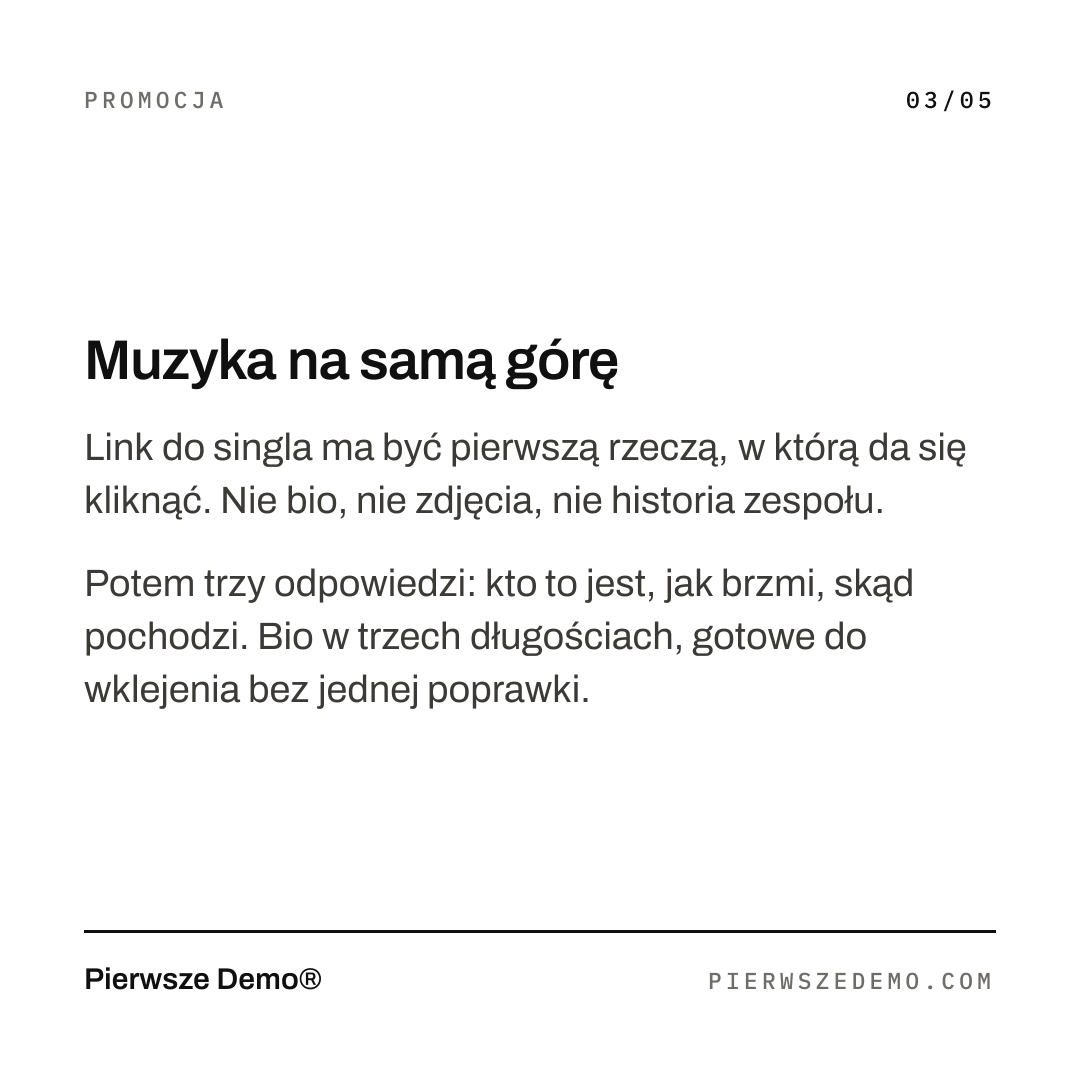
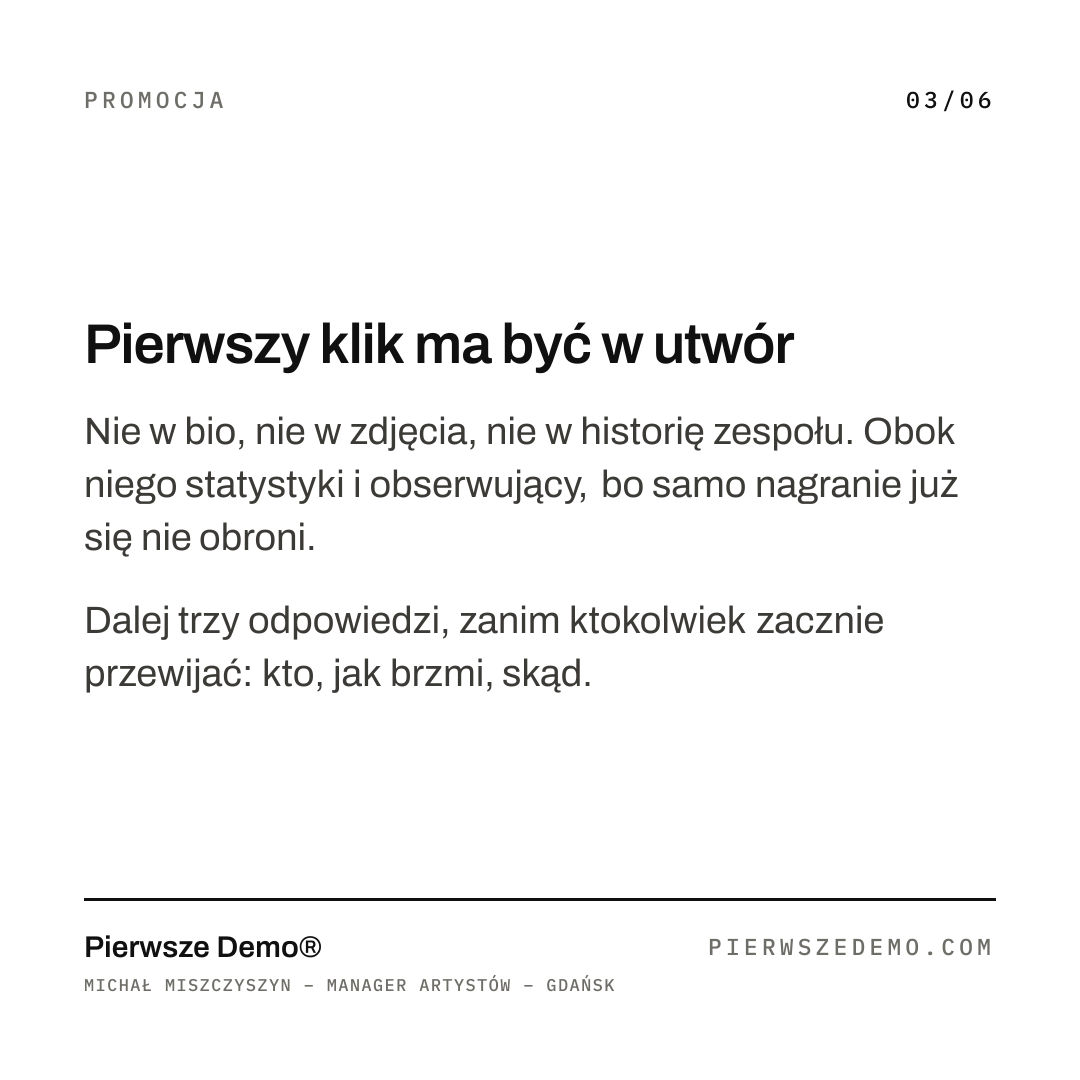
feat(ig): nowy wariant karuzeli EPK i podpis managera w stopce slajdów
Stopka każdego slajdu dostaje pod wordmarkiem wiersz
„Michał Miszczyszyn – Manager artystów – Gdańsk” ze stałych w consts.ts.
CTA może mieć 4 linie, a słowo w linii CTA 16 znaków – tyle ma
„pierwszedemo.com”, które ma stać jako wezwanie, nie tylko jako adres.

We wpisie „autora” → „autorki”, „managera” → „managementu”; to samo
na slajdach i w opisie.

diff --git a/src/content/blog/2026-08-09-jak-przygotowac-epk.md b/src/content/blog/2026-08-09-jak-przygotowac-epk.md
@@ -9,7 +9,7 @@ keyphrase: jak zrobić epk
 readingMinutes: 2
 ---
 
-Dostałem kiedyś EPK na czternaście ekranów. Był tam życiorys od podstawówki, lista wszystkich zagranych koncertów i skan dyplomu z przeglądu sprzed ośmiu lat. Muzyki nie było nigdzie. Zamknąłem to po minucie i do dziś nie wiem, jak ten zespół brzmi.
+Widziałem kiedyś EPK na czternaście ekranów. Był tam życiorys od podstawówki, lista wszystkich zagranych koncertów i skan dyplomu z przeglądu sprzed ośmiu lat. Muzyki nie było nigdzie. Zamknąłem to po minucie i do dziś nie wiem, jak ten zespół brzmi.
 
 Ale zacznijmy może od początku. **Press kit nie jest teczką z materiałami. Jest argumentem.** Jedno zdanie o tym, kim jest artystka albo artysta, jeden utwór, który to udowadnia, i jeden kontakt, pod który można zadzwonić.
 
@@ -17,11 +17,11 @@ Więc muzyka idzie na samą górę. Link do singla ma być pierwszą rzeczą, w 
 
 Co dalej? Trzy odpowiedzi, zanim ktokolwiek zdecyduje się przewijać: kto to jest, jak brzmi i skąd pochodzi. Gatunek, miasto, rok debiutu, ostatnie wydawnictwo. Bio przydaje się w trzech długościach – zdanie do line-upu, akapit do zapowiedzi koncertu i pełna wersja dla osoby, która naprawdę siada i pisze o tym tekst. Redakcje kopiują dokładnie to, co dostaną, więc każda z tych wersji ma być gotowa do wklejenia bez jednej poprawki.
 
-Zdjęcia prasowe w pełnej rozdzielczości, opisane, z nazwiskiem autora i jasną informacją, na jakich zasadach wolno ich użyć. Bez tego nie pójdą do druku. Serio. To nie jest formalność, tylko oszczędzenie komuś pół godziny pracy – a taka drobna uprzejmość wraca szybciej niż najlepszy opis.
+Zdjęcia prasowe w pełnej rozdzielczości, opisane, z nazwiskiem autorki i jasną informacją, na jakich zasadach wolno ich użyć. Bez tego nie pójdą do druku. Serio. To nie jest formalność, tylko oszczędzenie komuś pół godziny pracy – a taka drobna uprzejmość wraca szybciej niż najlepszy opis.
 
 I rzecz techniczna, która waży więcej, niż się wydaje. **EPK to adres strony, nie załącznik.** Plik waży swoje, ginie w skrzynce i starzeje się w dniu wysłania. Stronę poprawiasz w minutę, a jeden link wklejasz w wiadomość, w zgłoszenie na festiwal i w stopkę maila. Tak to wygląda u [Oli Geppert](https://olageppert.pl/epk).
 
-Na końcu kontakt do managera, a nie do artystki. Nie chodzi o prestiż, tylko o to, żeby o stawce, terminie i warunkach rozmawiała od początku osoba, która może je ustalić. Artystka odsyłająca zapytanie dalej traci dwa dni i część pola do negocjacji.
+Na końcu kontakt do managementu, a nie do artystki. Nie chodzi o prestiż, tylko o to, żeby o stawce, terminie i warunkach rozmawiała od początku osoba, która może je ustalić. Artystka odsyłająca zapytanie dalej traci dwa dni i część pola do negocjacji.
 
 A Ty co trzymasz w swoim EPK, czego nikt nigdy nie otworzył?
 

diff --git a/.agents/skills/instagram-carousel/SKILL.md b/.agents/skills/instagram-carousel/SKILL.md
@@ -89,10 +89,10 @@ Zapisz do `instagram/<slug>/slides.json`:
 - `slides` – 1–4 pozycje; `heading` ≤64 znaki, `body` to string albo tablica
   1–3 akapitów, łącznie ≤440 znaków **licząc spację między akapitami**.
 - `cta` jest opcjonalne – domyślne wartości (powyżej) są dobre w 90% przypadków;
-  `lines` to tablica 1–3 linii po ≤22 znaki, `url` ≤60 znaków. Adres renderuje
+  `lines` to tablica 1–4 linii po ≤22 znaki, `url` ≤60 znaków. Adres renderuje
   się małymi literami – ścieżki na Vercelu rozróżniają wielkość liter.
 - Żadne słowo nie może być dłuższe niż: 17 znaków w hooku, 26 w nagłówku, 30
-  w akapicie, 14 w linii CTA – satori nie dzieli wyrazów i taki token wyjechałby
+  w akapicie, 16 w linii CTA – satori nie dzieli wyrazów i taki token wyjechałby
   poza kadr. Długi adres albo hashtag w treści slajdu to zły pomysł także z
   tego powodu.
 
